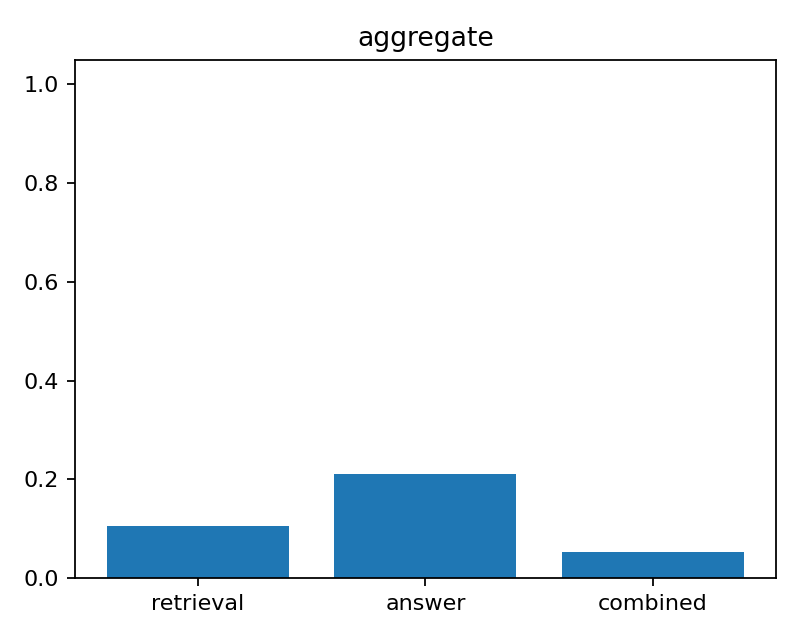
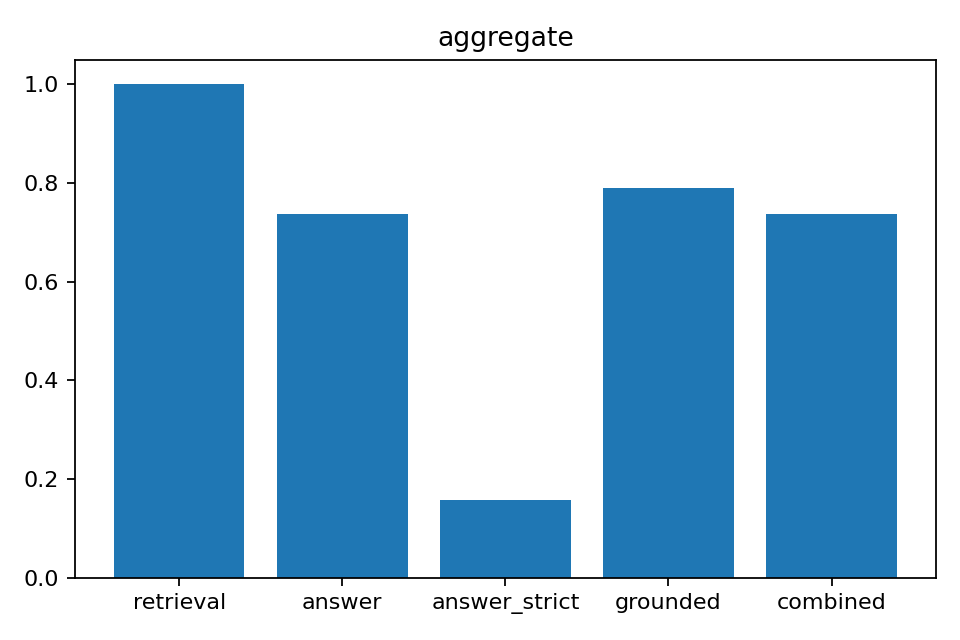
README: benchmark analysis for run 20260522_195233 vs baseline

diff --git a/README.md b/README.md
@@ -235,19 +235,17 @@ Metrics written to `benchmarks/results/<timestamp>/metrics.json`:
 
 | Metric | Definition |
 | --- | --- |
-| `retrieval_pass_rate` | Share of cases where `source_file` appears in hybrid top-8 |
+| `retrieval_pass_rate` | Share of cases where the canonical `source_file` appears in hybrid top-`RETRIEVAL_TOP_K` (16) |
 | `answer_pass_rate` | Share of cases where the RAG answer contains at least half of `must_contain` phrases |
-| `combined_pass_rate` | Fraction passing both checks |
+| `combined_pass_rate` | Fraction passing both retrieval and answer checks |
 | `answer_strict_pass_rate` | All `must_contain` phrases present in the answer |
 | `answer_grounded_rate` | Answer is not the fixed not-found template |
 
-Retrieval matching uses canonical file keys (`[DA-1] …` equals `DA-1 …`).
+Retrieval matching uses canonical file keys (`[DA-1] …` equals `DA-1 …`). Each eval run refreshes `benchmarks/reports/` for the figures below.
 
-Each run also refreshes committed figures under `benchmarks/reports/` for the README below.
+#### Baseline run — old stack (`20260522_184831`, 19 cases)
 
-#### Published run (`20260522_184831`, 19 cases)
-
-Aggregate metrics from `benchmarks/reports/metrics.json`:
+Settings: 500/100 token chunks without heading splits, min–max hybrid fusion, eval `top_k = 8`, substring path check in the evaluator.
 
 | Metric | Value |
 | --- | ---: |
@@ -255,17 +253,33 @@ Aggregate metrics from `benchmarks/reports/metrics.json`:
 | `answer_pass_rate` | 21.1% (4 / 19) |
 | `combined_pass_rate` | 5.3% (1 / 19) |
 
+Most retrieval failures were scoring artefacts (`DA-1 …` vs `[DA-1] …`), plus topical drift in top-8. Twelve answers returned the not-found template.
+
+#### Current run — updated stack (`20260522_195233`, 19 cases)
+
+Same QA set and corpus (`C:\Users\aleks\Downloads\rag-cpp`, user lecture tree). Settings: 320/80 token chunks with Markdown heading splits, weighted RRF + overlap rerank, `RETRIEVAL_TOP_K = 16`, `FINAL_TOP_K = 8`, canonical path matching in eval.
+
+| Metric | Value | Δ vs baseline |
+| --- | ---: | ---: |
+| `retrieval_pass_rate` | **100%** (19 / 19) | +89.5 pp |
+| `answer_pass_rate` | **73.7%** (14 / 19) | +52.6 pp |
+| `answer_grounded_rate` | **78.9%** (15 / 19) | — |
+| `answer_strict_pass_rate` | **15.8%** (3 / 19) | — |
+| `combined_pass_rate` | **73.7%** (14 / 19) | +68.4 pp |
+
 ![Per-case retrieval and answer pass](benchmarks/reports/pass_rates.png)
 
-The bar chart marks each QA pair: blue is retrieval (expected `source_file` in hybrid top-8), orange is answer (`must_contain` phrases in the model reply). Most bars stay at zero; only a few questions reach full retrieval or a correct answer.
+Blue bars are retrieval, orange bars are answer (`must_contain` half-match). After the update, every case retrieves the target lecture; fourteen also pass the answer check.
 
 ![Aggregate pass rates](benchmarks/reports/aggregate.png)
 
-**Retrieval (10.5%).** The dominant failure mode is a path mismatch between the QA set and indexed chunk metadata. Ground-truth paths look like `DA-1 Datasets and data mining.md`, while the index stores lecture files as `[DA-1] Datasets and data mining.md`. The evaluator checks substring containment, so semantically correct hits are scored as misses. A second issue is topical drift in hybrid top-8: broad ML course questions often surface unrelated lecture notes (Transformers, GenAI) instead of the DA/Pandas note that contains the answer.
+**Retrieval (100%).** The jump from 10.5% is not only “real” search quality: a large share of the old misses were false negatives from path strings. With canonical keys, every question now has the ground-truth file somewhere in the top-16 list. RRF reranking, smaller heading-aware chunks, and the wider pool reduced cases where the right lecture was missing entirely.
 
-**Answers (21.1%).** Four cases pass the phrase check. Three of them pass answer without retrieval (regression definition, sigmoid formula, MLP vs CNN): the generator still produces grounded text when nearby ML chunks appear in context, even though the strict file match fails. One case passes both checks (synthetic spectrum peak count) where retrieval returns the exact source document. In twelve cases the model returns the Russian not-found template because the retrieved context does not include the target passage.
+**Answers (73.7%).** Five cases still fail the loose phrase check. Two concern the synthetic spectrum note: the model answers correctly in prose but uses `N` / `1000` instead of the exact literals `N_SAMPLES = 2000` and `SEQ_LEN = 1000` required by `must_contain`. The other misses are paraphrases (pandas min/max, recommender pipeline stages, convolution wording) where retrieval succeeds but wording does not hit half of the benchmark phrases. Four answers still trigger the not-found template despite retrieval pass (`answer_grounded_rate` 78.9%).
 
-**End-to-end (5.3%).** Only one question satisfies retrieval and answer together. The pipeline is therefore limited by lexical–vector ranking and filename normalisation more than by the final LLM pass rate alone. Raising `top_k`, aligning path formats between `generated_qa.json` and the corpus tree, or adding a filename-normalisation step in `retrieval_hit` would shift the reported retrieval rate without changing the underlying index.
+**Strict phrases (15.8%).** Only three answers contain all `must_contain` strings verbatim. The benchmark heuristic remains strict; high `answer_pass_rate` with low `answer_strict_pass_rate` means the system answers substantively but not with the exact tokens the QA generator listed.
+
+**End-to-end (73.7%).** Compared with 5.3% baseline, the pipeline is usable for this corpus. Remaining gaps are mostly formulation and QA phrasing, not missing documents in retrieval.
 
 Reproduce or refresh the figures:
 